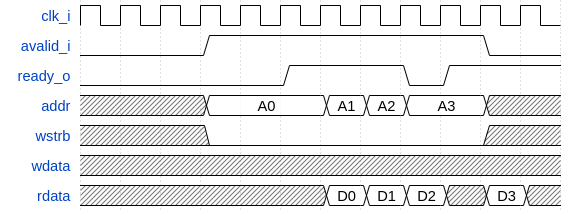
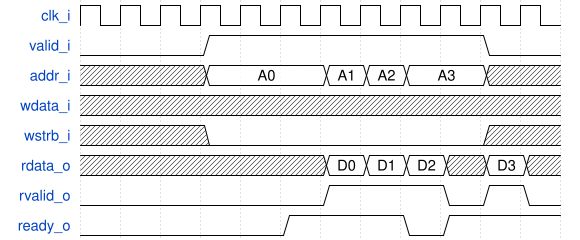
feat(iob): improve iob_interface README - update interface names (`valid_i` instead of `avalid_i`) - add missing `rvalid_o` signal - add example for write transactions - small introduction text in README - simple makefile to generate .png from .drom files

diff --git a/submodules/LIB/hardware/modules/iob_interface/README.md b/submodules/LIB/hardware/modules/iob_interface/README.md
@@ -1,3 +1,30 @@
-# IOb-interface #
+# IOb-interface
 
-![Read Transaction](iob_if_read.png "Read Transaction")
+The IOb-interface has the following signals:
+- `clk_i`: interface clock
+- `valid_i`: source signal valid transaction
+- `addr_i`: address for access
+- `wdata_i`: data to write
+- `wstrb_i`: write strobe
+- `rdata_o`: read data
+- `rvalid_o`: valid read data
+- `ready_o`: destination ready to accept transactions
+
+Transactions occur when both `valid_i` and `ready_o` are HIGH for one `clk_i`
+period.
+
+Use `wstrb_i` to distinguish between READ and WRITE operations. READ operations
+occur when all `wstrb_i` bits are LOW.
+
+## Read Transaction
+For READ operations: when `valid_i` and `ready_o` are HIGH, read `addr_i`
+address. The `rdata_o` is available when `rvalid_o` is HIGH.
+
+![Example Read Transaction](iob_if_read.png "Read Transaction")
+
+## Write Transaction
+For WRITE operations: when `valid_i` and `ready_o` are HIGH, write `wdata_i`
+bytes with corresponding `wstrb_i` bit HIGH to `addr_i` address.
+
+
+![Example Write Transaction](iob_if_write.png "Write Transaction")
